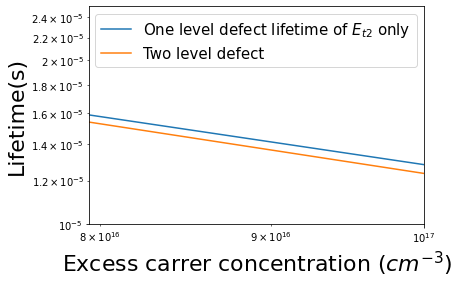
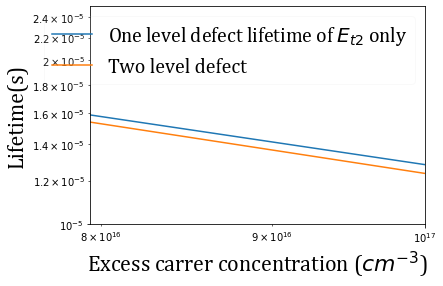
s

Changed region(s): [[0.0, 0.0282, 0.9977, 0.9577], [0.9391, 0.0, 0.9684, 0.0282]]

diff --git a/2_levels_problem/mode2/true_prediction_plot/plot_together.py b/2_levels_problem/mode2/true_prediction_plot/plot_together.py
@@ -27,6 +27,7 @@ from email.message import EmailMessage
 import os
 from sklearn.inspection import permutation_importance
 import sympy as sym
+import matplotlib.font_manager as font_manager
 # %%-
 
 
@@ -185,8 +186,8 @@ ax.set_aspect("equal")
 # # # plt.title('$E_{t1}$', fontsize=25)
 # # plt.title('True vs prediction plot', fontsize=20)
 # plt.legend(loc=4, framealpha=0.1, fontsize=20)
-plt.xticks(fontsize=15)
-plt.yticks(fontsize=15)
+plt.xticks(fontsize=15, font='Cambria')
+plt.yticks(fontsize=15, font='Cambria')
 plt.savefig(fname=str('Et1') + '.png', bbox_inches='tight')
 plt.show()
 # %%-
@@ -194,15 +195,15 @@ plt.show()
 
 # %%-- Plot all parameters together
 filetnamelist = ['Et1', 'Et2', 'Sn1', 'Sn2', 'Sp1', 'Sp2', 'k1', 'k2']
-title1 = r'$E_{\rm t1}$' + ' (eV)'
+title1 = r'E$_{\rm t1}$' + ' (eV)'
 # title1 = r'Primary T$_{\rm eff}$'
-title2 = r'$E_{\rm t2}$' + ' (eV)'
-title3 = r'log$(\sigma_{\rm n1})$ ' + r'($\rm cm^{-3}$)'
-title4 = r'log$(\sigma_{\rm n2})$ ' + r'($\rm cm^{-3}$)'
-title5 = r'log$(\sigma_{\rm p1})$ ' + r'($\rm cm^{-3}$)'
-title6 = r'log$(\sigma_{\rm p2})$ ' + r'($\rm cm^{-3}$)'
-title7 = r'log$(k_1)$'
-title8 = r'log$(k_2)$'
+title2 = r'E$_{\rm t2}$' + ' (eV)'
+title3 = r'log$(\sigma_{\rm n1})$ ' + r'(cm$^{-3}$)'
+title4 = r'log$(\sigma_{\rm n2})$ ' + r'(cm$^{-3}$)'
+title5 = r'log$(\sigma_{\rm p1})$ ' + r'(cm$^{-3}$)'
+title6 = r'log$(\sigma_{\rm p2})$ ' + r'(cm$^{-3}$)'
+title7 = 'log$(k_1)$'
+title8 = 'log$(k_2)$'
 textlist = ['(a)', '(d)', '(b)', '(e)', '(c)', '(f)', '(g)', '(h)']
 titlelist = [title1, title2, title3, title4, title5, title6, title7, title8]
 xlabels = []
@@ -212,14 +213,14 @@ for title in titlelist:
     xlabels.append('True ' + title)
     ylabels.append('Predicted ' + title)
 
-title1 = r'$E_{\rm t1}$' + ' (eV)'
-title2 = '$E_{t2}$' + ' (eV)'
-title3 = 'log$(\sigma_{n1})$ ' + r'($\rm cm^{-3}$)'
-title4 = 'log$(\sigma_{n2})$ ' + r'($\rm cm^{-3}$)'
-title5 = 'log$(\sigma_{p1})$ ' + r'($\rm cm^{-3}$)'
-title6 = 'log$(\sigma_{p2})$ ' + r'($\rm cm^{-3}$)'
-title7 = 'log$(k_1)$'
-title8 = 'log$(k_2)$'
+title1 = r'E$_{\rm t1}$' + ' (eV)'
+title2 = r'E$_{t2}$' + ' (eV)'
+title3 = 'log$(\sigma_{n1})$ ' + r'(cm$^{-3}$)'
+title4 = 'log$(\sigma_{n2})$ ' + r'(cm$^{-3}$)'
+title5 = 'log$(\sigma_{p1})$ ' + r'(cm$^{-3}$)'
+title6 = 'log$(\sigma_{p2})$ ' + r'(cm$^{-3}$)'
+title7 = 'log(k$_1)$'
+title8 = 'log(k$_2)$'
 titlelist2 = [title1, title2, title3, title4, title5, title6, title7, title8]
 titlelist = []
 for title in titlelist2:
@@ -260,16 +261,17 @@ for task in [Et1list, Et2list, Sn1list, Sn2list, Sp1list, Sp2list, k1list, k2lis
     ax = fig.add_subplot(111)
     true = Truelist
     prediction = predictionlist
-    plt.scatter(true, prediction, label=('$R^2$' + '=' + str(round(R2, 3))) + ('; $MAE$' + '=' + str(round(MAE, 3))), alpha=0.01, color='green')
+    plt.scatter(true, prediction, label=('R$^2$' + '=' + str(round(R2, 3))) + ('; MAE' + '=' + str(round(MAE, 3))), alpha=0.01, color='green')
     # plt.plot(true, true, color='r')
-    plt.xlabel(xlabels[counter], fontsize=22)
-    plt.ylabel(ylabels[counter], fontsize=22)
+    plt.xlabel(xlabels[counter], fontsize=22, font='Cambria')
+    plt.ylabel(ylabels[counter], fontsize=22, font='Cambria')
     ax.set_aspect("equal")
     # # plt.title(str(titlelist[counter]), fontsize=25)
-    plt.legend(loc=4, framealpha=0.1, fontsize=15)
-    plt.xticks(fontsize=15)
-    plt.yticks(fontsize=15)
-    plt.text(0.05, 0.9, textlist[counter], transform=ax.transAxes, fontsize=22)
+    font = font_manager.FontProperties(family='Cambria', style='normal', size=20)
+    plt.legend(loc=4, framealpha=0.1, prop=font)
+    plt.xticks(fontsize=22, font='Cambria')
+    plt.yticks(fontsize=22, font='Cambria')
+    # plt.text(0.05, 0.9, textlist[counter], transform=ax.transAxes, fontsize=22, font='Cambria')
     if filename[0] == 'S':
         plt.xticks(range(-17, -12))
         plt.yticks(range(-17, -12))
@@ -289,16 +291,17 @@ for task in [Et1list, Et2list, Sn1list, Sn2list, Sp1list, Sp2list, k1list, k2lis
     ax = fig.add_subplot(111)
     true = Truelist
     prediction = predictionlist
-    plt.scatter(true, prediction, label=('$R^2$' + '=' + str(round(R2, 3))) + ('; $MAE$' + '=' + str(round(MAE, 3))), alpha=0.01, color='green')
+    plt.scatter(true, prediction, label=('R$^2$' + '=' + str(round(R2, 3))) + ('; MAE' + '=' + str(round(MAE, 3))), alpha=0.01, color='green')
     plt.plot(true, true, color='r')
-    plt.xlabel(xlabels[counter], fontsize=22)
-    plt.ylabel(ylabels[counter], fontsize=22)
+    plt.xlabel(xlabels[counter], fontsize=22, font='Cambria')
+    plt.ylabel(ylabels[counter], fontsize=22, font='Cambria')
     ax.set_aspect("equal")
     # # plt.text(0, 0.5, alphabet[k], fontsize=20)
     # # # plt.title(str(titlelist[counter]), fontsize=25)
-    plt.legend(loc=4, framealpha=0.1, fontsize=15)
-    plt.xticks(fontsize=15)
-    plt.yticks(fontsize=15)
+    font = font_manager.FontProperties(family='Cambria', style='normal', size=20)
+    plt.legend(loc=4, framealpha=0.1, prop=font)
+    plt.xticks(fontsize=15, font='Cambria')
+    plt.yticks(fontsize=15, font='Cambria')
     if filename[0] == 'S':
         # print(filename)
         plt.xticks(range(-17, -12))
@@ -362,8 +365,8 @@ for task in [Et1list, Et2list, Sn1list, Sn2list, Sp1list, Sp2list]:
     # # plt.text(0, 0.5, alphabet[k], fontsize=20)
     # # plt.title(str(titlelist[counter]), fontsize=25)
     # plt.legend(loc=4, framealpha=0.1, fontsize=20)
-    plt.xticks(fontsize=15)
-    plt.yticks(fontsize=15)
+    plt.xticks(fontsize=15, font='Cambria')
+    plt.yticks(fontsize=15, font='Cambria')
     plt.savefig(fname=str(filetnamelist[counter]) + 'error' + '.png', bbox_inches='tight')
     plt.show()
 

diff --git a/2_levels_problem/mode2/plot_lifetime.py b/2_levels_problem/mode2/plot_lifetime.py
@@ -27,6 +27,7 @@ from email.message import EmailMessage
 import os
 from sklearn.inspection import permutation_importance
 import sympy as sym
+import matplotlib.font_manager as font_manager
 # %%-
 
 
@@ -38,6 +39,10 @@ Et2_one_path = r'C:\Users\sijin wang\Desktop\research\thesiswork\thesis3\Et1_Et2
 Et2_two_path = r'C:\Users\sijin wang\Desktop\research\thesiswork\thesis3\Et1_Et2_cover\Et2_dominate\two_level_defect.csv'
 Et2_0_1_path = r'C:\Users\sijin wang\Desktop\research\thesiswork\thesis3\Et1_Et2_cover\Et2_not_sensitive\Et2_0_1.csv'
 Et2_0_path = r'C:\Users\sijin wang\Desktop\research\thesiswork\thesis3\Et1_Et2_cover\Et2_not_sensitive\Et2_0.csv'
+Et12_01_path = r'C:\Users\sijin wang\Desktop\research\thesiswork\thesis3\Et1_Et2_cover\Et2_not_sensitive\Et12_both_01.csv'
+Et12_n_01_path = r'C:\Users\sijin wang\Desktop\research\thesiswork\thesis3\Et1_Et2_cover\Et2_not_sensitive\Et12_both_n_01.csv'
+Et1_01_path = r'C:\Users\sijin wang\Desktop\research\thesiswork\thesis3\Et1_Et2_cover\Et2_not_sensitive\Et1_0_1.csv'
+Et1_n_01_path = r'C:\Users\sijin wang\Desktop\research\thesiswork\thesis3\Et1_Et2_cover\Et2_not_sensitive\Et1_n_0_1.csv'
 
 Et1_one_lifetime = pd.read_csv(Et1_one_path)
 Et1_two_lifetime = pd.read_csv(Et1_two_path)
@@ -45,6 +50,10 @@ Et2_one_lifetime = pd.read_csv(Et2_one_path)
 Et2_two_lifetime = pd.read_csv(Et2_two_path)
 Et2_0_1_lifetime = pd.read_csv(Et2_0_1_path)
 Et2_0_lifetime = pd.read_csv(Et2_0_path)
+Et12_01 = pd.read_csv(Et12_01_path)
+Et12_n_01 = pd.read_csv(Et12_n_01_path)
+Et1_01 = pd.read_csv(Et1_01_path)
+Et1_n_01 = pd.read_csv(Et1_n_01_path)
 # %%-
 
 
@@ -119,33 +128,39 @@ plt.show()
 
 # %%-- Plot Et2 not sensitive.
 plt.figure(facecolor='white', figsize=(5, 5))
-plt.plot(Et2_0_1_lifetime.iloc[:, 0], Et2_0_1_lifetime.iloc[:, 1], label=r'$E_{\rm t2}$ = 0.1 eV')
-plt.plot(Et2_0_lifetime.iloc[:, 0], Et2_0_lifetime.iloc[:, 1], label=r'$E_{\rm t2}$ = 0 eV')
+plt.plot(Et2_0_1_lifetime.iloc[:, 0], Et2_0_1_lifetime.iloc[:, 1], label=r'E$_{t2}$ = 0.1 eV')
+plt.plot(Et2_0_lifetime.iloc[:, 0], Et2_0_lifetime.iloc[:, 1], label=r'E$_{t2}$ = 0 eV')
+plt.plot(Et12_01.iloc[:, 0], Et12_01.iloc[:, 1])
+plt.plot(Et1_01.iloc[:, 0], Et1_01.iloc[:, 1])
+plt.plot(Et1_n_01.iloc[:, 0], Et1_n_01.iloc[:, 1])
 print(np.max(Et2_0_1_lifetime.iloc[:, 1]-Et2_0_lifetime.iloc[:, 1]))
-plt.legend(fontsize=13)
+font = font_manager.FontProperties(family='Cambria', style='normal', size=20)
+# plt.legend(framealpha=0.1, prop=font)
 plt.xscale('log')
-plt.yscale('log')
-plt.xlabel(r'Excess carrer concentration ($\rm cm^{-3}$)', fontsize=22)
-plt.ylabel('Lifetime(s)', fontsize=22)
+# plt.yscale('log')
+plt.xlabel(r'Excess carrer concentration (cm$^{-3}$)', fontsize=22, font='Cambria')
+plt.ylabel('Lifetime(s)', fontsize=22, font='Cambria')
 # plt.title('$E_{t1}=-0.5 eV$; $E_{t2}=-0.5 eV$' )
 # plt.xlim([10**(16.9), 1e17])
 # plt.ylim([1e-5, 10**-4.6])
-plt.xticks(fontsize=20)
-plt.yticks(fontsize=20)
+plt.xticks(fontsize=20, font='Cambria')
+plt.yticks(fontsize=20, font='Cambria')
 plt.savefig('Et2_dominate.png', bbox_inches='tight')
 plt.show()
 
-plt.figure(facecolor='white')
-plt.plot(Et2_one_lifetime.iloc[:, 0], Et2_one_lifetime.iloc[:, 1], label='One level defect lifetime of $E_{t2}$ only')
-plt.plot(Et2_two_lifetime.iloc[:, 0], Et2_two_lifetime.iloc[:, 1], label='Two level defect')
-plt.legend(fontsize=15)
-plt.xscale('log')
-plt.yscale('log')
-plt.xlabel('Excess carrer concentration ($cm^{-3}$)', fontsize=22)
-plt.ylabel('Lifetime(s)', fontsize=22)
-# plt.title('$E_{t1}=-0.5 eV$; $E_{t2}=-0.5 eV$' )
-plt.xlim([10**(16.9), 1e17])
-plt.ylim([1e-5, 10**-4.6])
-plt.savefig('Et2_dominate_zoomin.png', bbox_inches='tight')
-plt.show()
+# plt.figure(facecolor='white')
+# plt.plot(Et2_one_lifetime.iloc[:, 0], Et2_one_lifetime.iloc[:, 1], label='One level defect lifetime of $E_{t2}$ only')
+# plt.plot(Et2_two_lifetime.iloc[:, 0], Et2_two_lifetime.iloc[:, 1], label='Two level defect')
+# font = font_manager.FontProperties(family='Cambria', style='normal', size=20)
+# plt.legend(framealpha=0.1, prop=font)
+# # plt.legend(fontsize=15)
+# plt.xscale('log')
+# plt.yscale('log')
+# plt.xlabel('Excess carrer concentration ($cm^{-3}$)', fontsize=22, font='Cambria')
+# plt.ylabel('Lifetime(s)', fontsize=22, font='Cambria')
+# # plt.title('$E_{t1}=-0.5 eV$; $E_{t2}=-0.5 eV$' )
+# plt.xlim([10**(16.9), 1e17])
+# plt.ylim([1e-5, 10**-4.6])
+# plt.savefig('Et2_dominate_zoomin.png', bbox_inches='tight')
+# plt.show()
 # %%-

diff --git a/2_levels_problem/mode2/Yan_DPSS_code/test.py b/2_levels_problem/mode2/Yan_DPSS_code/test.py
@@ -308,19 +308,23 @@ optind = np.argmin(residuallist)
 plt.figure(num='Resudual', facecolor='white')
 im1 = plt.imshow(residuallistr,extent =extent, aspect='equal', origin = 'lower',norm=colors.LogNorm())
 cb = plt.colorbar(im1, label='Fitting residual')
-cb.set_label(label='Fitting residual',fontsize=16)
+cb.set_label(label='Fitting residual',fontsize=16, font='Cambria')
 cb.ax.tick_params(labelsize=15)
-plt.plot(Etlist[optind][1],Etlist[optind][0],'bo')
+# plt.plot(Etlist[optind][1],Etlist[optind][0],'bo')
 print(Etlist[optind][1])
 print(Etlist[optind][0])
-plt.plot([-0.33], [0.145], 'w*', markersize=10)
+plt.plot([-0.303], [0.144], 'w*', markersize=10)
 plt.plot([-0.3],[0.15],'r*', markersize=10)
-plt.annotate('True value', (-0.3, 0.18), color='red', fontsize=15)
-plt.annotate('ML prediction', (-0.4, 0.05), color='white', fontsize=15)
-plt.xlabel(r'$E_{\rm t2}-E_{\rm i} \/\/ \rm (eV)$', fontsize=22)
-plt.ylabel(r'$E_{\rm t1}-E_{\rm i} \/\/ \rm (eV)$', fontsize=22)
-plt.xticks(fontsize=15)
-plt.yticks(fontsize=15)
+plt.annotate('True value', (-0.3, 0.18), color='red', fontsize=15, font='Cambria')
+plt.annotate('ML prediction', (-0.4, 0.05), color='white', fontsize=15, font='Cambria')
+plt.xlabel('$Et1$', fontsize=22, fontname='Cambria')
+plt.ylabel('$Et2$', fontsize=22, fontname='Cambria')
+plt.xlabel(r'$E_{\rm t2}-E_{\rm i} \/\/ \rm (eV)$', fontsize=22, fontname='Cambria')
+plt.ylabel(r'$E_{\rm t1}-E_{\rm i} \/\/ \rm (eV)$', fontsize=22, fontname='Cambria')
+# params = {'text.usetex': False, 'mathtext.fontset': 'stixsans'}
+# plt.rcParams.update(params)
+plt.xticks(fontsize=15, font='Cambria')
+plt.yticks(fontsize=15, font='Cambria')
 plt.savefig('residual map low res' + '.png', bbox_inches='tight')
 plt.show()
 # %%-
@@ -359,21 +363,23 @@ plt.figure(num='Resudual', facecolor='white')
 im1 = plt.imshow(residuallistr,extent =extent, aspect='equal', origin = 'lower',norm=colors.LogNorm())
 cb = plt.colorbar(im1, label='Fitting residual', pad=0.1)
 cb.ax.tick_params(labelsize=15)
-cb.set_label(label='Fitting residual',fontsize=16)
-plt.plot(Etlist[optind][1],Etlist[optind][0],'bo')
+cb.set_label(label='Fitting residual',fontsize=16, font='Cambria')
+# plt.plot(Etlist[optind][1],Etlist[optind][0],'bo')
 # plt.plot([-0.303], [0.146], 'y*', markersize=10)
 plt.plot([-0.3],[0.15],'r*', markersize=10)
-plt.plot([-0.32], [0.145], 'w*', markersize=10)
-plt.annotate('True value', (-0.3, 0.16), color='red', fontsize=15)
+plt.plot([-0.303], [0.145], 'w*', markersize=10)
+plt.errorbar(x=-0.303, y=0.145, xerr=0.051/2, yerr=0.028/2, color='white')
+plt.annotate('True value', (-0.3, 0.16), color='red', fontsize=15, font='Cambria')
 # plt.annotate('Combined', (-0.3, 0.13), color='yellow', fontsize=15)
 # plt.annotate('Pure ML', (-0.36, 0.13), color='white',  fontsize=15)
-plt.annotate('ML prediction', (-0.36, 0.13), color='white',  fontsize=15)
-plt.xlabel(r'$E_{\rm t2}-E_{\rm i} \/\/ \rm (eV)$', fontsize=22)
-plt.ylabel(r'$E_{\rm t1}-E_{\rm i} \/\/ \rm (eV)$', fontsize=22)
+plt.annotate('ML prediction', (-0.36, 0.13), color='white',  fontsize=15, font='Cambria')
+# plt.annotate('Lowest residual', (-0.285, 0.14), color='blue', fontsize=15)
+plt.xlabel(r'$E_{\rm t2}-E_{\rm i} \/\/ \rm (eV)$', fontsize=22, font='Cambria')
+plt.ylabel(r'$E_{\rm t1}-E_{\rm i} \/\/ \rm (eV)$', fontsize=22, font='Cambria')
 plt.xlim([-0.4, -0.2])
 plt.ylim([0.1, 0.2])
-plt.xticks([-0.4, -0.3, -0.2], fontsize=15)
-plt.yticks([0.1, 0.15, 0.2], fontsize=15)
+plt.xticks([-0.4, -0.3, -0.2], fontsize=15, font='Cambria')
+plt.yticks([0.1, 0.15, 0.2], fontsize=15, font='Cambria')
 # plt.xticks(rotation=45)
 plt.savefig('residual map zoomed in' + '.png', bbox_inches='tight')
 plt.show()
